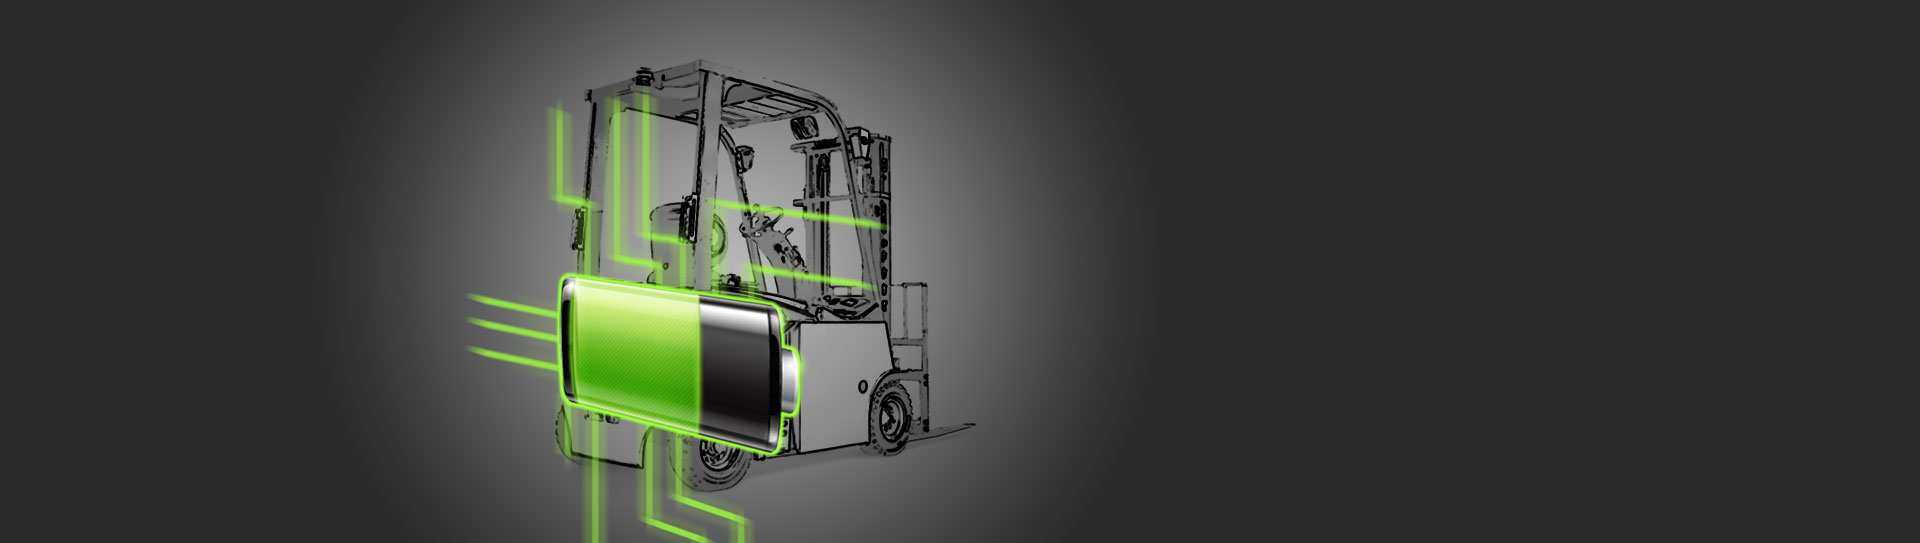
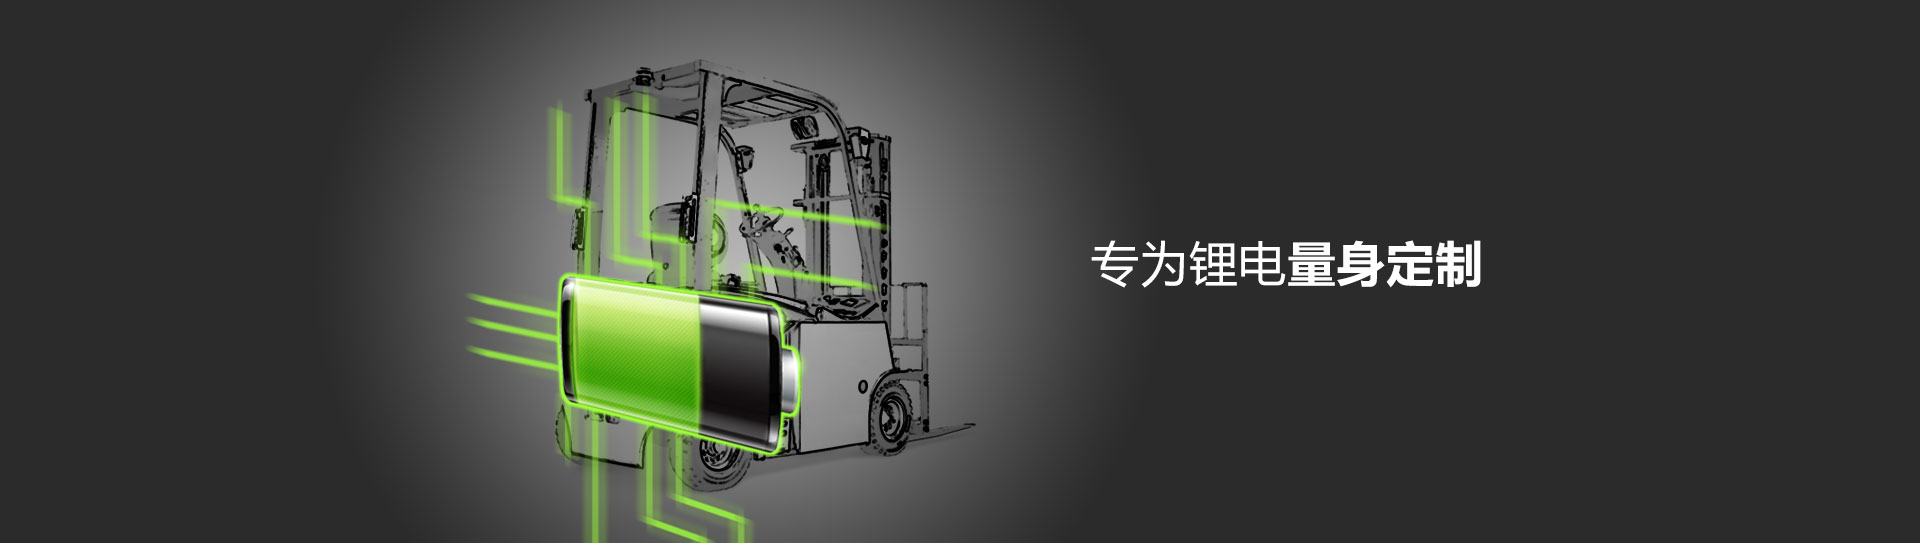
6.12 8.54

Changed region(s): [[0.5625, 0.442, 0.7812, 0.5304]]

diff --git a/css/special.css b/css/special.css
@@ -71,11 +71,11 @@
 .tool4{
 	border-top:0;
 	position: absolute;
-  background: white;
-  border: 1px solid #9a9a9a;
-  left: -1px;
-  top: 152px;
-  cursor: pointer;
+    background: white;
+    border: 1px solid #9a9a9a;
+    left: -1px;
+    top: 152px;
+  	cursor: pointer;
 }
 
 #tool div i {
@@ -121,23 +121,21 @@
 }
 
 .banner{
-	max-width: 1920px;
-	min-width: 1200px;
-	margin: 0 auto;
+	width: 100%;
+	height: 600px;
+	overflow: hidden;
 }
 
 .banner img{
 	width: 100%;
+	height: 600px;
 }
+
 
 /**************************** 锂电搬运车 ******************************************/
 .carry{
 	width: 100%;
 	margin-top: 30px;
-}
-
-.titleName{
-	font-weight: bold; 
 }
 
 .carryBox{
@@ -278,10 +276,6 @@ position: relative;
 	margin-top: 50px; 
 }
 
-.third h3{
-	font-weight: bold;
-}
-
 .thirdBox{
 width: 1200px;
 height: 620px;
@@ -327,7 +321,7 @@ font-size: 30px;
 position: relative;
 }
 
-.thirdBoxBottom p{
+.thirdBoxBottom h3{
 	margin-right: 5px;
 	color: #000000;
 }
@@ -363,17 +357,19 @@ background: #257433;
 }
 
 .advantage{
-	margin: 0 auto
+	width: 100%;
+	background: #2b2b2b;
 }
 
-/* .advantageCent{
-	width: 100%;
+.advantageCent{
+	width: 1200px;
+	margin: 0 auto;
 	position: relative;
-} */
+}
 
 .advantageCent img{
 	width: 100%;
-	height: 100%;
+	height: 400px;
 }
 
 .advantageCent p{
@@ -861,7 +857,6 @@ textarea{
 .foot_r{
 	float: left;
 }
-
 
 .foot_menu { 
     /*float: right; */ 

diff --git a/js/aboutEp.js b/js/aboutEp.js
@@ -146,7 +146,7 @@ $(function() {
 	$(".valueItem").mouseleave(function() {
 		var $index = $(".valueItem").index(this);
 		if($index>1){
- 			$(this).find("span").stop().animate({height:"63px"});
+			 $(this).find("span").stop().animate({height:"63px"});
 			$(this).find("span").addClass("short");			
 		}
 	});

diff --git a/js/specialOne.js b/js/specialOne.js
@@ -16,7 +16,7 @@ $(function () {
             index = 0;
         }
         $(".anniu li").removeClass().eq(index).addClass("active");
-    }, 2500)
+    }, 3000)
 
     $(".anniu li").click(function () {
         var liIndex = $(this).index();

diff --git a/specialTwo.html b/specialTwo.html
@@ -450,7 +450,6 @@
 	<div class="advantage">
 		<div class="advantageCent">
 			<img src="img/huodong/bigpicuter.jpg" />
-			<p>为锂电量身定制</p>
 		</div>
 	</div>
 

diff --git a/css/specialOne.css b/css/specialOne.css
@@ -229,7 +229,7 @@
 
 .lunboCenUl li{
     position: absolute; top: 0;
-    transition: all .3s ease;
+    transition: all 1s ease;
     width: 50%;
 }
 
